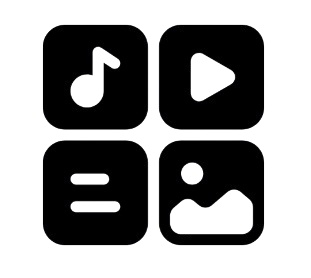
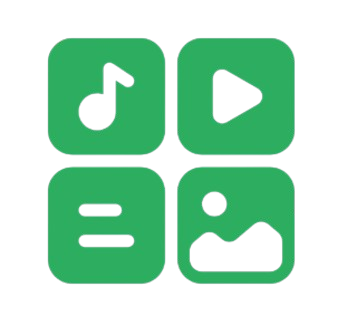
[dyad] Substituição do ícone de Audiovisual pela nova imagem anexada - wrote 2 file(s)

diff --git a/src/pages/Index.tsx b/src/pages/Index.tsx
@@ -10,7 +10,6 @@ import { Button } from '@/components/ui/button';
 import { useIsMobile } from '@/hooks/use-mobile';
 
 // Importando os ícones e as imagens de fundo
-import iconAudiovisual from '@/assets/icon-audiovisual.png';
 import iconLiteratura from '@/assets/icon-literatura.png';
 import iconArtesanato from '@/assets/icon-artesanato.png';
 import iconPopular from '@/assets/icon-popular.png';
@@ -23,6 +22,7 @@ import waveRight from '@/assets/wave-right.png';
 import iconMusica from '../../.dyad/media/89788568739c2801b420fc906edcac85b18bc344486da53b8290c2a0c1a7167b.png';
 import iconVisuais from '../../.dyad/media/82d0adce100c586902cd62f56438d5adaaf5878dd998ec90e517ac72f31aa9c3.png';
 import iconCenicas from '../../.dyad/media/132a138c8493a519540ea548d3b95febb3291401f7e225657feb1e0944129bb4.png';
+import iconAudiovisual from '../../.dyad/media/b5b818e2e87e59b3b4a6ba8837b9ed3f22012ac5da420e4850dbb1dbf9a5aae2.png';
 
 const Index = () => {
   const isMobile = useIsMobile();
